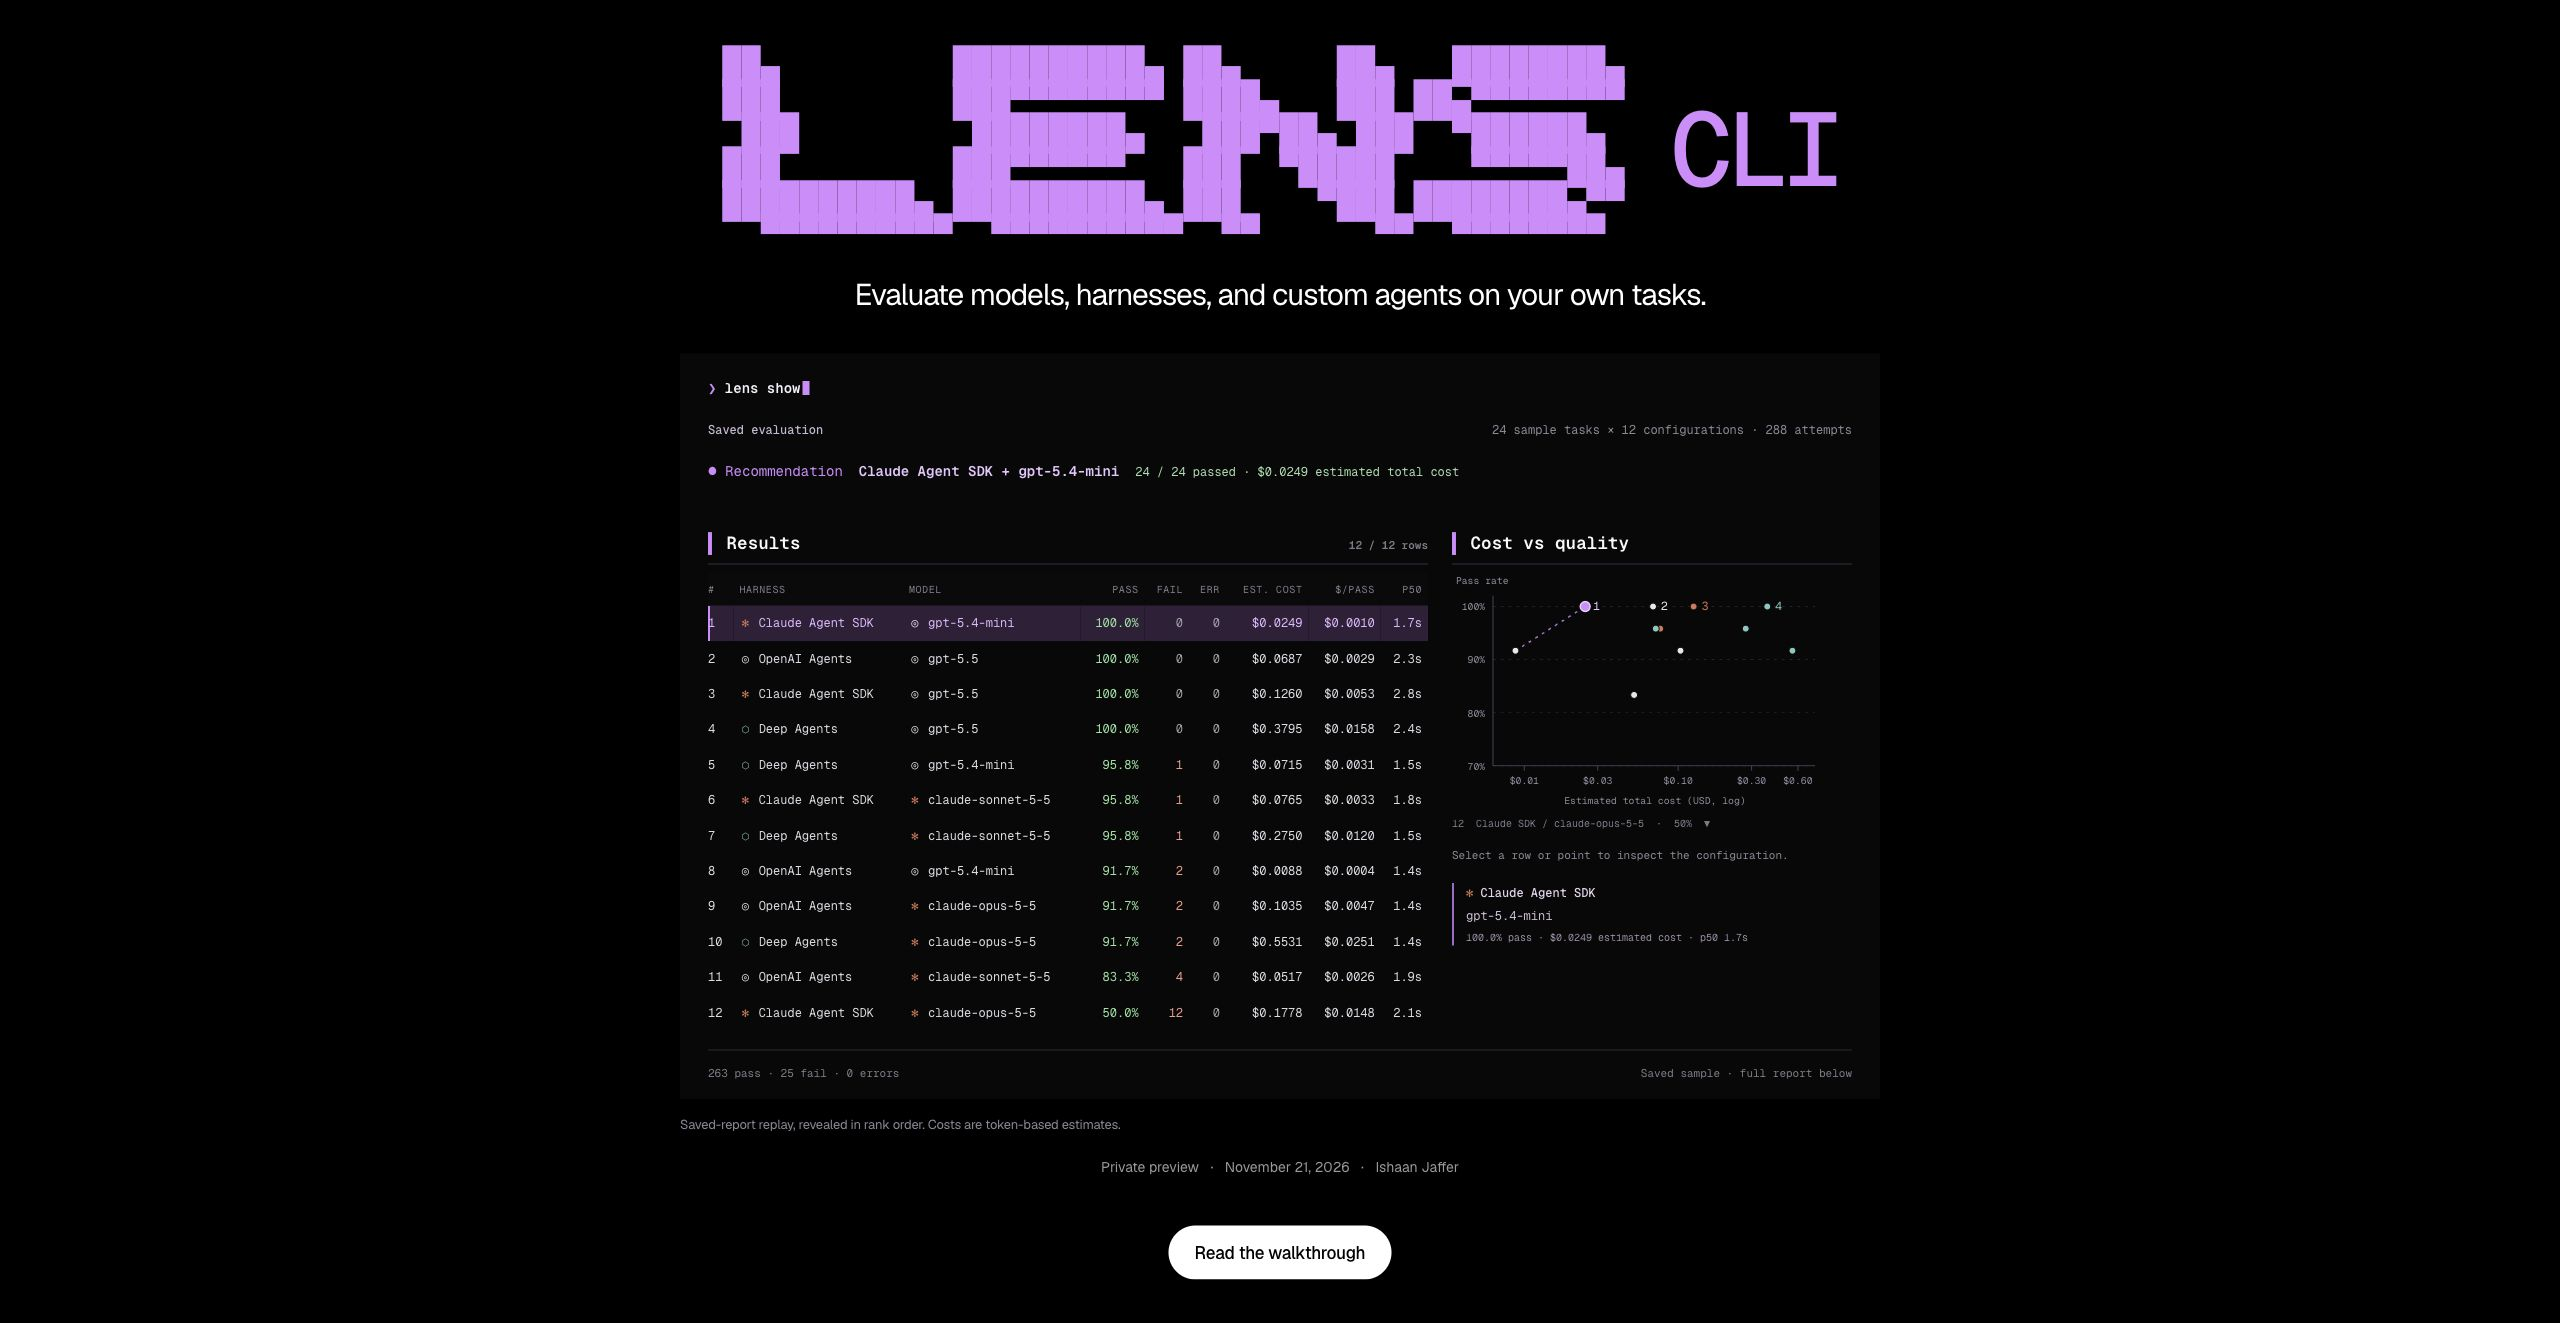
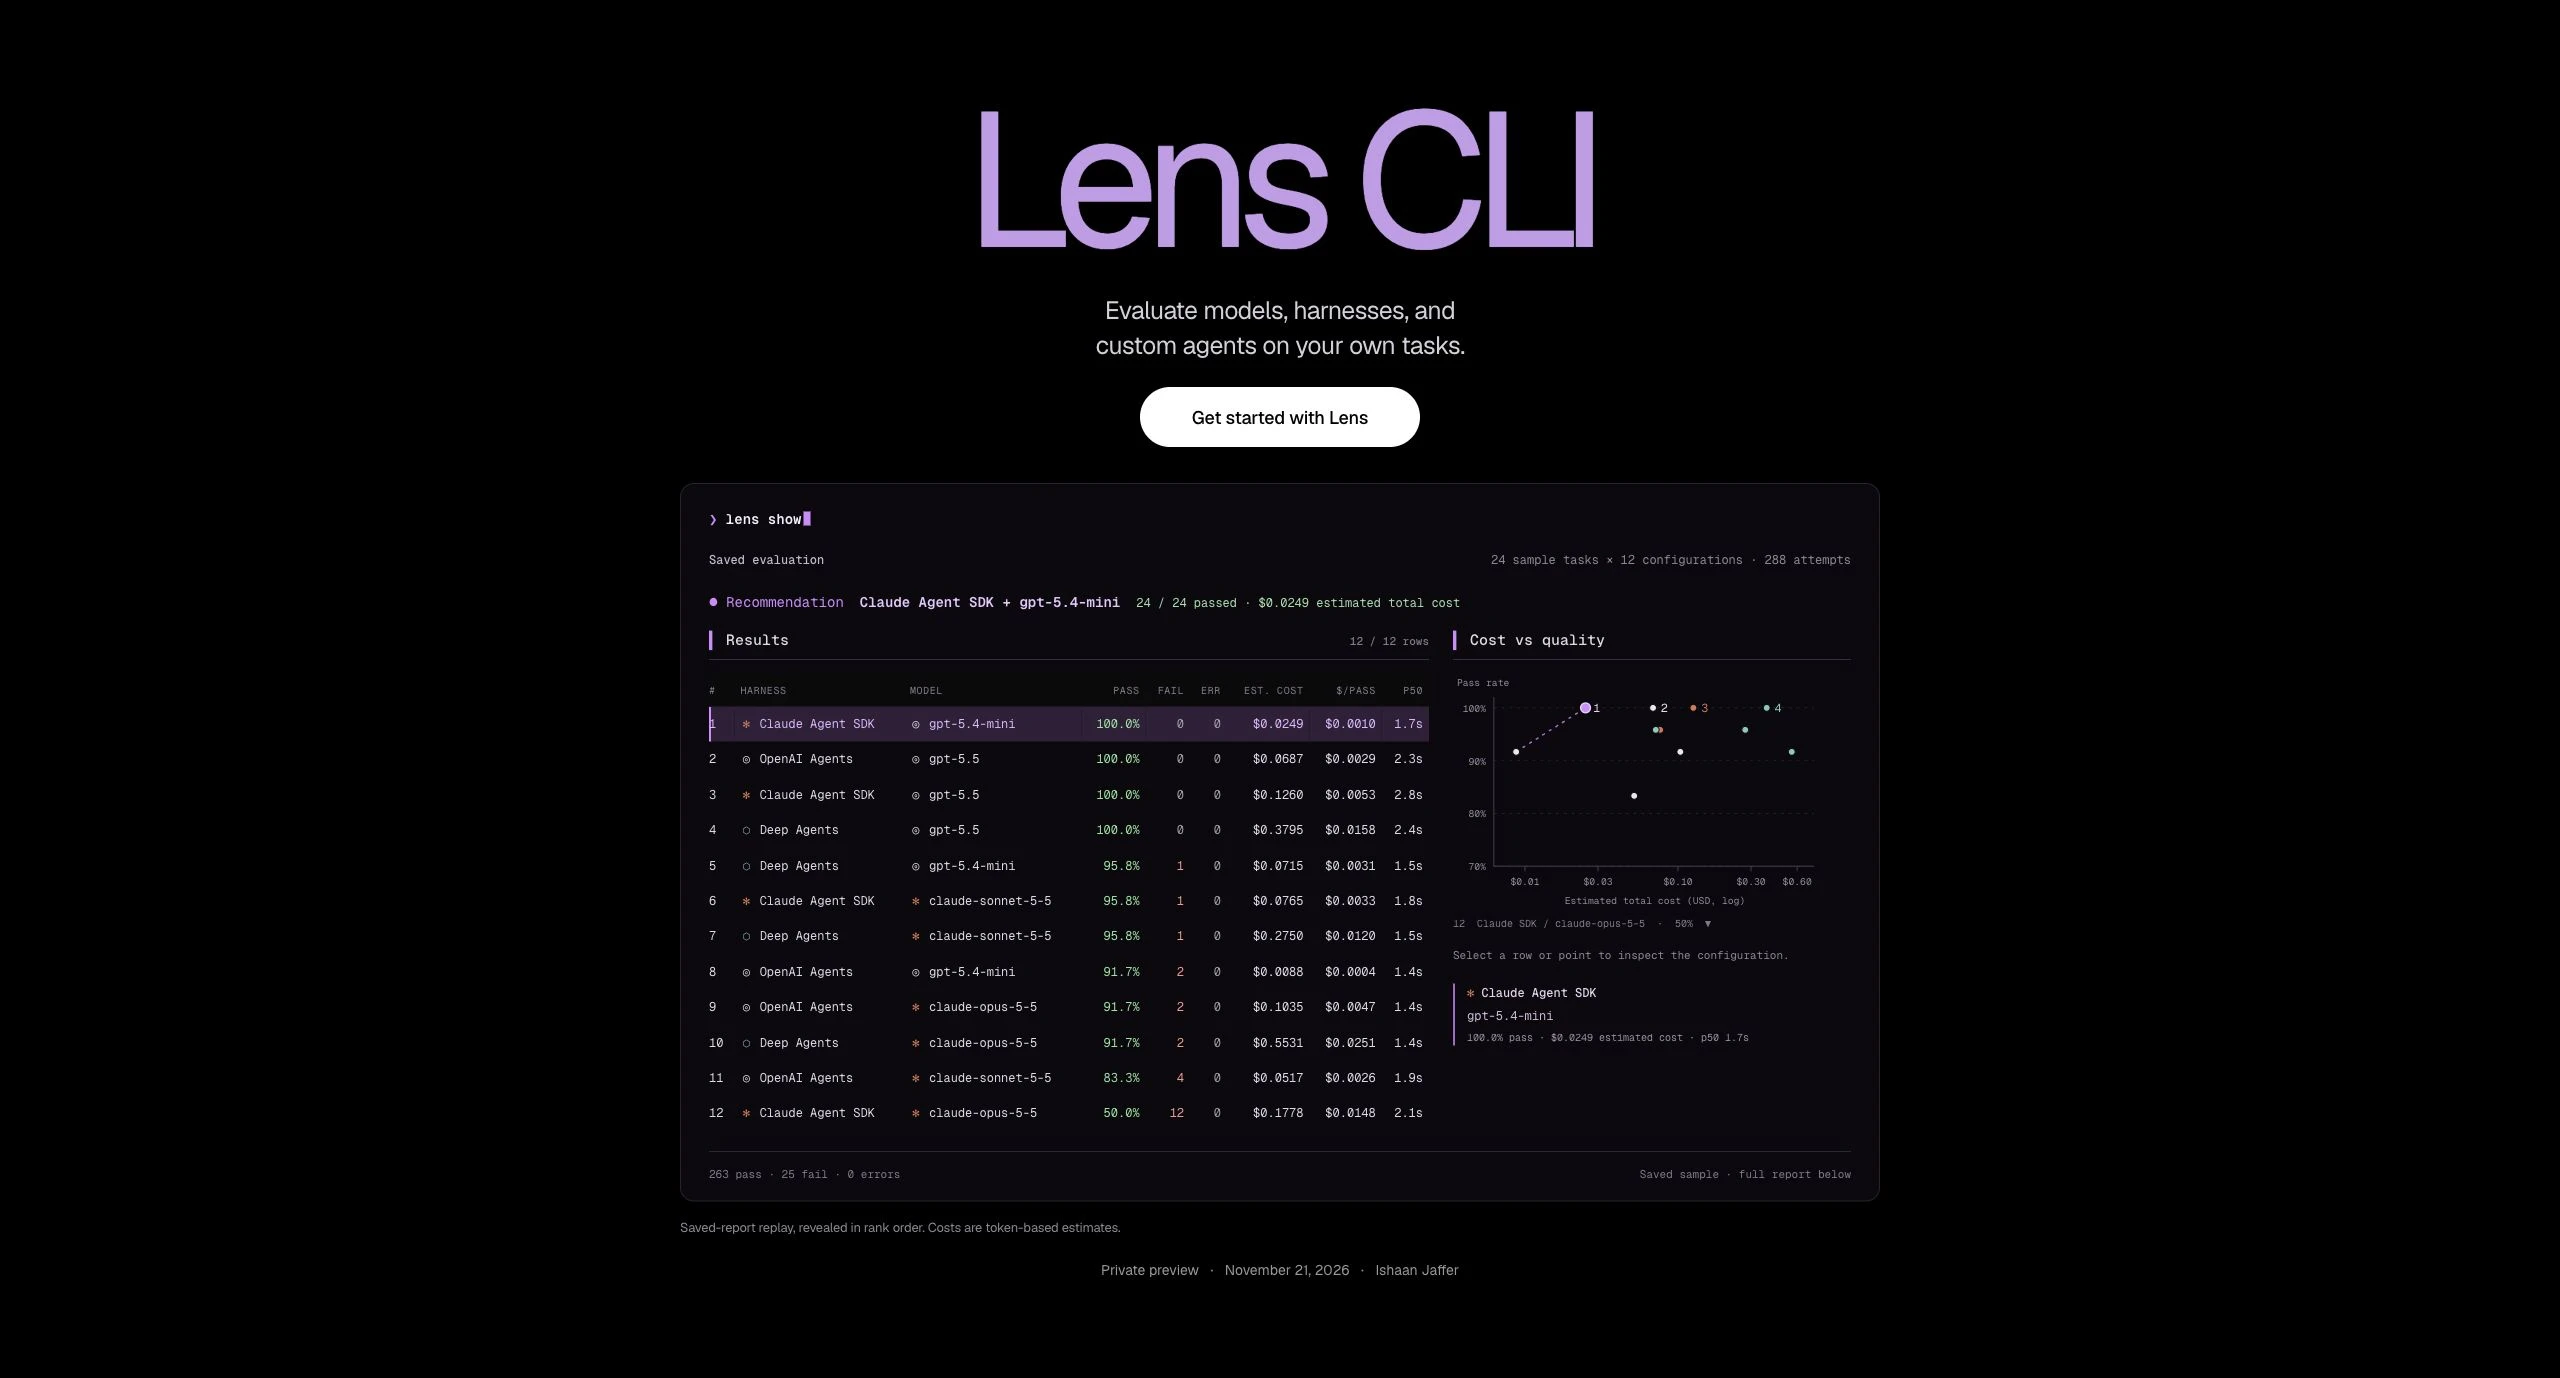
docs(lens): restore plain purple title and repeat GitHub CTA

diff --git a/blog/lens_cli/styles.module.css b/blog/lens_cli/styles.module.css
@@ -140,40 +140,15 @@
   margin: 0 auto;
 }
 
-.hero h1 {
+:global(article):has(.hero) .hero h1 {
   margin: 0 0 24px !important;
   color: #c69be9 !important;
-  font-size: inherit !important;
+  font-family: var(--ifm-font-family-base);
+  font-size: clamp(80px, 14vw, 190px) !important;
   font-weight: 400 !important;
-  line-height: 1 !important;
-  letter-spacing: 0;
-}
-
-.brandRow {
-  display: inline-grid;
-  grid-template-columns: minmax(0, 1fr) auto;
-  align-items: center;
-  gap: clamp(16px, 3vw, 32px);
-  width: min(720px, 100%);
-  max-width: 100%;
-}
-
-.asciiHeading {
-  display: block;
-  width: 100%;
-  height: auto;
-  color: #c69be9;
-}
-
-.cliLabel {
-  align-self: end;
-  padding-bottom: 0.14em;
-  color: #c69be9;
-  font-family: var(--ifm-font-family-monospace);
-  font-size: clamp(28px, 4.2vw, 52px);
-  font-weight: 400;
-  line-height: 1;
-  letter-spacing: -0.065em;
+  line-height: 0.94 !important;
+  letter-spacing: -0.075em;
+  white-space: nowrap;
 }
 
 .hero .tagline {
@@ -187,14 +162,19 @@
   text-wrap: balance;
 }
 
-.hero .cta,
-.hero .cta:hover {
+.ctaRow {
+  display: flex;
+  justify-content: center;
+  margin: 24px auto 0;
+}
+
+.cta,
+.cta:hover {
   display: inline-flex;
   align-items: center;
   justify-content: center;
   min-width: 280px;
   min-height: 60px;
-  margin-top: 24px;
   padding: 18px 32px;
   border-radius: 999px;
   background: #fff;
@@ -206,8 +186,8 @@
   transition: background 150ms ease;
 }
 
-.hero .cta:hover { background: #ddd; }
-.hero .cta:focus-visible { outline: 2px solid #d5b4ef; outline-offset: 5px; }
+.cta:hover { background: #ddd; }
+.cta:focus-visible { outline: 2px solid #d5b4ef; outline-offset: 5px; }
 
 .hero .byline {
   margin: 22px 0 0;
@@ -318,19 +298,7 @@
   :global(article):has(.hero) .terminal .rankTable { font-size: 13px; }
 }
 
-.screenReaderOnly {
-  position: absolute;
-  width: 1px;
-  height: 1px;
-  margin: -1px;
-  padding: 0;
-  overflow: hidden;
-  clip: rect(0, 0, 0, 0);
-  white-space: nowrap;
-  border: 0;
-}
-
-.hero + p { margin-top: 72px !important; }
+.hero + .ctaRow { margin-top: 0; margin-bottom: 72px; }
 
 .preview {
   margin-block: 36px 64px;
@@ -378,11 +346,9 @@
   }
 
   .hero { padding: 36px 20px; }
-  .hero h1 { margin-bottom: 24px !important; }
-  .brandRow { width: min(430px, 100%); }
-  .cliLabel { font-size: clamp(28px, 6vw, 38px); }
+  :global(article):has(.hero) .hero h1 { margin-bottom: 24px !important; font-size: clamp(72px, 18vw, 96px) !important; }
   .hero .tagline { max-width: 400px; font-size: 21px; }
-  .hero .cta { margin-top: 32px; }
+  .ctaRow { margin-top: 32px; }
   .cliPreview { width: calc(100% + 24px); margin: 32px -12px 0; }
   .terminal { padding: 20px 14px 16px; font-size: 11px; }
   .reportMeta { display: block; font-size: 10px; }
@@ -408,6 +374,6 @@
 }
 
 @media (prefers-reduced-motion: reduce) {
-  .hero .cta, .savedReport, :global(article):has(.hero) .terminal .rankTable tr { transition: none; }
+  .cta, .savedReport, :global(article):has(.hero) .terminal .rankTable tr { transition: none; }
   .cliPreview .cursor { animation: none; }
 }

diff --git a/blog/lens_cli/Launch.js b/blog/lens_cli/Launch.js
@@ -1,20 +1,6 @@
 import React, {useEffect, useRef, useState} from 'react';
 import styles from './styles.module.css';
 
-const LENS_LOGO = `██▄         ██████████▄ ██▄     ██▄   ████████▄
-███         ███▀▀▀▀▀▀▀▀ ████▄   ███ ██▄▀▀▀▀▀▀▀▀
-███         ████████▄   ███▀██▄ ███  ▀██████▄
-███         ███▀▀▀▀▀▀   ███  ▀█████    ▀▀▀▀▀██▄
-██████████▄ ██████████▄ ███    ▀███ ████████▄▀▀
- ▀▀▀▀▀▀▀▀▀▀  ▀▀▀▀▀▀▀▀▀▀  ▀▀      ▀▀  ▀▀▀▀▀▀▀▀`;
-const LOGO_LINES = LENS_LOGO.split('\n');
-const LOGO_WIDTH = Math.max(...LOGO_LINES.map(line => line.length)) * 6;
-const LOGO_PATH = LOGO_LINES.flatMap((line, row) => Array.from(line, (cell, column) => {
-  if (cell === ' ') return '';
-  const height = cell === '█' ? 10 : 5;
-  const top = row * 10 + (cell === '▄' ? 5 : 0);
-  return `M${column * 6},${top}h6v${height}h-6z`;
-})).join('');
 const COMMAND = 'lens show';
 const RESULTS = [
   {
@@ -362,13 +348,21 @@ export default function LaunchHero() {
   return (
     <header className={styles.hero} data-full-width>
       <div className={styles.heroContent}>
-        <h1><span className={styles.screenReaderOnly}>Lens CLI</span><span className={styles.brandRow} aria-hidden="true"><svg className={styles.asciiHeading} viewBox={`0 0 ${LOGO_WIDTH} 60`}><path d={LOGO_PATH} fill="currentColor" /></svg><span className={styles.cliLabel}>CLI</span></span></h1>
+        <h1>Lens CLI</h1>
         <p className={styles.tagline}>Evaluate models, harnesses, and custom agents on your own tasks.</p>
-        <a className={styles.cta} href="https://github.com/BerriAI/lens">Get started with Lens</a>
+        <GetStartedCta />
         <NativeCliPreview />
         <p className={styles.byline}>Private preview <span aria-hidden="true">·</span> November 21, 2026 <span aria-hidden="true">·</span> Ishaan Jaffer</p>
       </div>
     </header>
+  );
+}
+
+export function GetStartedCta() {
+  return (
+    <div className={styles.ctaRow}>
+      <a className={styles.cta} href="https://github.com/BerriAI/lens">Get started with Lens</a>
+    </div>
   );
 }
 

diff --git a/blog/lens_cli/index.md b/blog/lens_cli/index.md
@@ -11,9 +11,11 @@ custom_hero: true
 draft: true
 ---
 
-import LaunchHero, {PreviewNote, ReportFigure} from './Launch';
+import LaunchHero, {GetStartedCta, PreviewNote, ReportFigure} from './Launch';
 
 <LaunchHero />
+
+<GetStartedCta />
 
 Before, you had to write the eval loop, create temporary workspaces and collect the results in a spreadsheet. Then you changed the model or harness and repeated the work.
 
@@ -72,3 +74,5 @@ Run through your Lens-enabled gateway, then open **Lens > Traces** to inspect ca
 <ReportFigure src="/img/lens/overview-traces.webp" alt="The Lens Traces UI shows captured agent runs with inputs, duration, costs, and findings.">
 Lens UI shown with sample data, separate from the CLI run above.
 </ReportFigure>
+
+<GetStartedCta />
